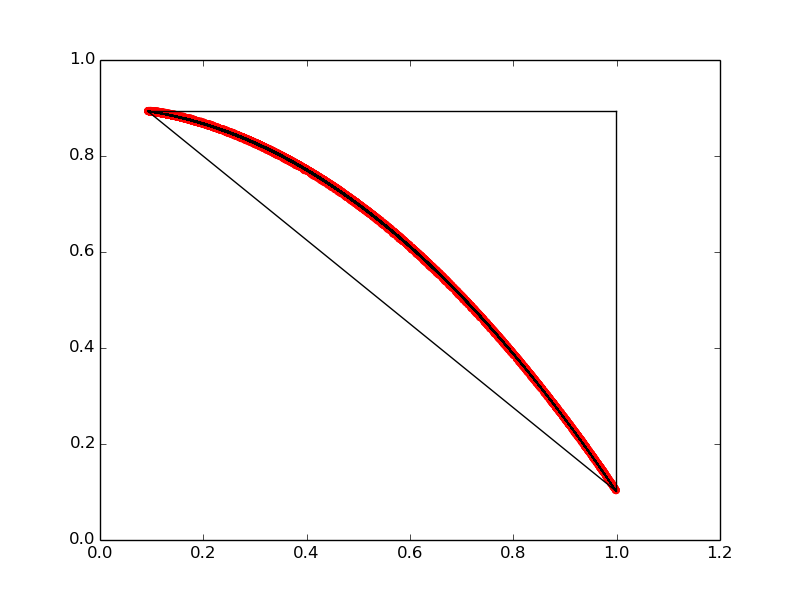
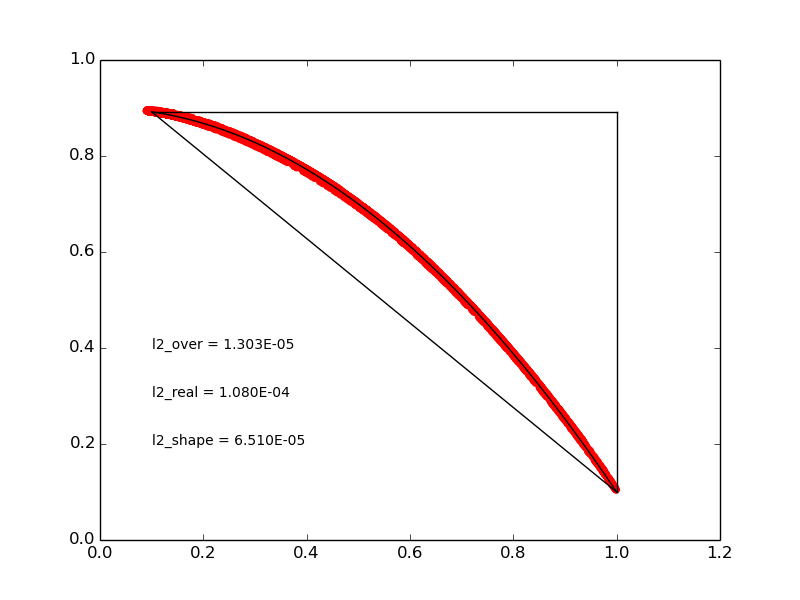
混合特性の計算を修正

diff --git a/mixing.py b/mixing.py
@@ -27,6 +27,10 @@ for i in range(n):
 chi_min = 0.1
 chi_max = 1.0
 
+surf_x = np.linspace(0.1, 1.0, n)
+surf_y = np.zeros_like(surf_x)
+surf_y[:] = surf_x[:] * surf_x[:] * a + b
+
 for i in range(n):
   W[i] = text1[i].split()[0]
   G1[i] = text1[i].split()[1]
@@ -35,20 +39,21 @@ for i in range(n):
   chi[i] = C[i] + (13.0/75.0 - 5.0/12.0*G1[i]) / C[i]
   psi[i] = chi[i] * chi[i] * a + b
 
-g2_diff = 0.9
-g2_max = 1.0
+g2_diff = 0.792
+g2_max = 0.892
 g2_min = 0.1
 
 for i in range(n):
   L[i] = np.sqrt(( ((G[i] - chi[i]) / (chi_max - chi_min)) **2) + (((G1[i] - psi[i]) / (g2_diff)) ** 2))
   G3[i] = g2_max + ((g2_min - g2_max) / (chi_max - chi_min)) * (G[i] - chi_min)
 
+
 l2_real = 0.0
 l2_shape = 0.0
 l2_over = 0.0
 
 for i in range(n):
-  if ((0.1 > G[i] or G[i] < 1.0) and (0.1 > G1[i] or G1[i] > 1.0)):
+  if ((0.1 > G[i] and G[i] < 1.0) or (0.1 > G1[i] and G1[i] > 0.892)):
     l2_over += W[i] * L[i] / np.sum(W)
   elif (0.1 < G[i] and G[i] < 1.0 and G3[i] < G1[i] and G1[i] < G2[i]):
     l2_real += W[i] * L[i] / np.sum(W)
@@ -58,11 +63,11 @@ for i in range(n):
 print(l2_real, l2_shape, l2_over)
 
 plt.scatter(G, G1, color="red")
-plt.plot(G, G2, color="black")
-plt.plot([min(G), max(G)], [max(G2), max(G2)], color="black")
-plt.plot([max(G), max(G)], [max(G2), min(G2)], color="black")
-plt.plot(G, G3, color="black")
-plt.text(1.1, 0.4, "l2_over = {}".format(l2_over), fontsize = 10)
-plt.text(1.1, 0.3, "l2_real = {}".format(l2_real), fontsize = 10)
-plt.text(1.1, 0.2, "l2_shape = {}".format(l2_shape), fontsize = 10)
-plt.savefig('mixing.png')
+plt.plot(surf_x, surf_y, color="black")
+plt.plot([0.1, 1.0], [0.892, 0.892], color="black")
+plt.plot([1.0, 1.0], [0.892, 0.1], color="black")
+plt.plot([0.1, 1.0], [0.892, 0.1], color="black")
+plt.text(0.1, 0.4, "l2_over = {:.3E}".format(l2_over), fontsize = 10)
+plt.text(0.1, 0.3, "l2_real = {:.3E}".format(l2_real), fontsize = 10)
+plt.text(0.1, 0.2, "l2_shape = {:.3E}".format(l2_shape), fontsize = 10)
+plt.savefig('mixing_fd.png')
